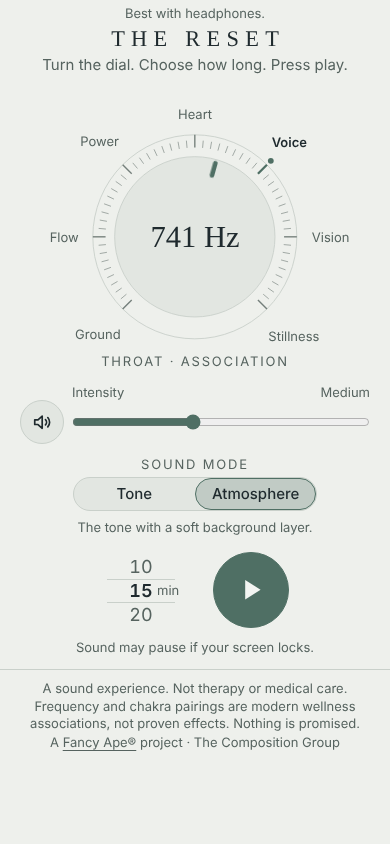
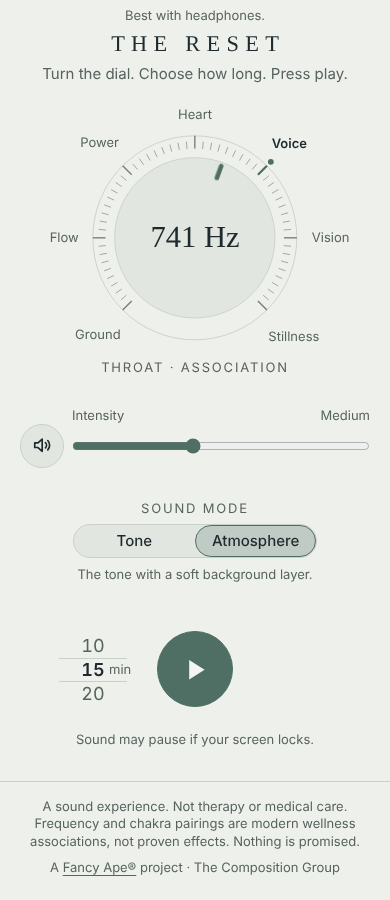
Play on the dial axis with the wheel to its left; one vertical rhythm (8/16/24/32/48)
Claude-Session: https://claude.ai/code/session_01GARUu4aZWZHH9xWAKDJbQb

diff --git a/index.html b/index.html
@@ -30,21 +30,24 @@
 *,*::before,*::after{box-sizing:inherit}
 html{scroll-padding-top:env(safe-area-inset-top,0px)}
 body{margin:0;min-height:100vh;min-height:100svh;display:flex;flex-direction:column;background:var(--bg);color:var(--ink);font-family:var(--sans);font-size:16px;line-height:1.5;-webkit-font-smoothing:antialiased;padding-top:env(safe-area-inset-top,0px)}
-main{--sp:1rem;flex:none;width:100%;max-width:30rem;margin:0 auto;padding:.5rem 1.25rem 1rem}
-.topnote{margin:0 0 .3rem;text-align:center;font-size:.8125rem;line-height:1.2;color:var(--muted)}
+/* one vertical rhythm, from the scale 8 / 16 / 24 / 32 / 48 px only */
+main{flex:none;width:100%;max-width:30rem;margin:0 auto;padding:8px 1.25rem 32px}
+.topnote{margin:0 0 8px;text-align:center;font-size:.8125rem;line-height:1.2;color:var(--muted)}
 main:has(#vMain.hidden) .topnote{display:none}
 h1{font-family:var(--serif);font-weight:400;font-size:1.75rem;letter-spacing:.28em;line-height:1.1;margin:0;padding-left:.28em;text-align:center}
 h2{font-family:var(--serif);font-weight:400;font-size:1.5rem;line-height:1.2;margin:0 0 .75rem}
-.lead{text-align:center;color:var(--muted);margin:.35rem 0 0;text-wrap:balance}
+.lead{text-align:center;color:var(--muted);margin:8px 0 0;text-wrap:balance}
 button,input{font:inherit;color:inherit}
 button{cursor:pointer}
 :focus-visible{outline:2px solid var(--brass);outline-offset:3px}
 .hidden,[hidden]{display:none!important}
-.hint{font-size:.8125rem;line-height:1.35;color:var(--muted);margin:var(--sp) 0 0;text-align:center}
+.hint{font-size:.8125rem;line-height:1.35;color:var(--muted);margin:16px 0 0;text-align:center}
+.notice{margin-top:24px}
+main:has(#slot:not([hidden])) .notice{margin-top:16px}
 
 /* dial */
 /* ring radius --R = half the box minus 50px, so the seven labels sit outside the ring and inside the box at every size; the empty bottom of the arc is pulled in by the negative bottom margin */
-.dial{--W:min(100%,19rem,40svh);--R:calc(50cqw - 50px);container-type:inline-size;position:relative;width:var(--W);min-width:12rem;aspect-ratio:1;margin:var(--sp) auto calc(var(--W) * -.12);touch-action:none;user-select:none;-webkit-user-select:none;-webkit-tap-highlight-color:transparent;border-radius:50%;cursor:grab}
+.dial{--W:min(100%,19rem,40svh);--R:calc(50cqw - 50px);container-type:inline-size;position:relative;width:var(--W);min-width:12rem;aspect-ratio:1;margin:2px auto calc(13.9px - var(--W) * .1465);touch-action:none;user-select:none;-webkit-user-select:none;-webkit-tap-highlight-color:transparent;border-radius:50%;cursor:grab}
 .dial:active{cursor:grabbing}
 .dial svg{position:absolute;left:50%;top:50%;display:block;width:calc(var(--R) * 3.0357);height:calc(var(--R) * 3.0357);margin:calc(var(--R) * -1.51786) 0 0 calc(var(--R) * -1.51786);overflow:visible}
 .aura{position:absolute;left:calc(50% - var(--R) - 10px);top:calc(50% - var(--R) - 10px);width:calc(var(--R) * 2 + 20px);height:calc(var(--R) * 2 + 20px);border-radius:50%;pointer-events:none;opacity:0;background:radial-gradient(circle,color-mix(in srgb,var(--glow-c,var(--accent)) 55%,transparent) 52%,transparent 70%);will-change:opacity,transform}
@@ -65,7 +68,7 @@ button{cursor:pointer}
 .dial:focus-visible{outline-offset:8px}
 
 /* readout */
-.readout{text-align:center;margin:0;min-height:1.3rem}
+.readout{text-align:center;margin:0}
 .chakra{font-size:.8125rem;font-weight:400;letter-spacing:.14em;line-height:1.3;color:var(--muted)}
 
 /* pills, toggles */
@@ -77,7 +80,7 @@ button{cursor:pointer}
 /* volume + transport */
 /* intensity: speaker, track and the two labels share one grid, so the speaker centres on the track and the labels start and end with it */
 .mix,.transport,.extras{max-width:22rem;margin-left:auto;margin-right:auto}
-.mix{display:grid;grid-template-columns:2.75rem 1fr;grid-template-rows:auto 2.75rem;column-gap:.5rem;align-items:center;margin-top:var(--sp)}
+.mix{display:grid;grid-template-columns:2.75rem 1fr;grid-template-rows:auto 2.75rem;column-gap:8px;align-items:center;margin-top:32px}
 .mix input[type=range]{grid-column:2;grid-row:2;width:100%;height:2.75rem;margin:0;accent-color:var(--accent)}
 .icon-btn{grid-column:1;grid-row:2}
 .intens{display:contents}
@@ -86,9 +89,9 @@ button{cursor:pointer}
 .icon-btn{width:2.75rem;height:2.75rem;flex:none;border:1px solid var(--line);background:var(--surface);border-radius:50%;display:grid;place-items:center;padding:0}
 .icon-btn svg{width:1.4rem;height:1.4rem}
 .icon-btn[data-muted="true"]{border-color:var(--accent);background:color-mix(in srgb,var(--accent) 22%,transparent)}
-.transport{display:flex;justify-content:center;align-items:center;gap:2rem;margin-top:calc(var(--sp) * 1.4)}
+.transport{display:grid;grid-template-columns:minmax(0,1fr) auto minmax(0,1fr);align-items:center;column-gap:24px;margin-top:48px}
 /* time wheel: three visible rows (one faded value above and below), as tall as the row it sits in. The box itself has 12px of invisible padding top and bottom (cancelled by negative margins) so each half is a 44px touch target. */
-.wheel{--rh:1.5rem;--pad:12px;flex:none;position:relative;width:5rem;height:calc(var(--rh) * 3 + var(--pad) * 2);margin:calc(var(--pad) * -1) 0;border-radius:.6rem;touch-action:none;user-select:none;-webkit-user-select:none;-webkit-tap-highlight-color:transparent;cursor:ns-resize;font-variant-numeric:tabular-nums}
+.wheel{--rh:1.5rem;--pad:12px;justify-self:end;position:relative;width:5rem;height:calc(var(--rh) * 3 + var(--pad) * 2);margin:calc(var(--pad) * -1) 0;border-radius:.6rem;touch-action:none;user-select:none;-webkit-user-select:none;-webkit-tap-highlight-color:transparent;cursor:ns-resize;font-variant-numeric:tabular-nums}
 .wheel:focus-visible{outline:none}
 .wheel:focus-visible .wview{outline:2px solid var(--brass);outline-offset:3px;border-radius:.6rem}
 .wview{position:absolute;inset:var(--pad) 0;overflow:hidden;border-top:1px solid transparent}
@@ -107,20 +110,20 @@ button{cursor:pointer}
 .playwrap{position:relative;width:5.5rem;height:5.5rem}
 .play{position:relative}
 /* sound mode: a slim segmented control. The buttons are 32px tall to look light, with an invisible 7px above and below (the buttons have a 1px border, so 30 + 14 = 44) so each tap area is 44px. */
-.soundmode{margin-top:var(--sp);text-align:center}
-.segctl{display:inline-grid;grid-template-columns:1fr 1fr;margin-top:.3rem;border:1px solid var(--line);border-radius:999px;background:var(--surface)}
+.soundmode{margin-top:32px;text-align:center}
+.segctl{display:inline-grid;grid-template-columns:1fr 1fr;margin-top:8px;border:1px solid var(--line);border-radius:999px;background:var(--surface)}
 .segctl button{position:relative;z-index:1;min-width:6.5rem;height:2rem;border:1px solid transparent;border-radius:999px;background:none;padding:0 1rem;font-size:.9375rem;font-weight:500;color:var(--ink)}
 .segctl button::after{content:"";position:absolute;left:0;right:0;top:-7px;bottom:-7px}
 .segctl button[aria-checked="true"]{border-color:var(--accent);background:color-mix(in srgb,var(--accent) 22%,transparent)}
-.modecap{margin:.5rem 0 0;font-size:.8125rem;line-height:1.3;color:var(--muted);min-height:1.05rem}.btn{border:1px solid var(--line);background:var(--surface);border-radius:999px;padding:.5rem 1.1rem;min-height:2.75rem;font-weight:500}
+.modecap{margin:8px 0 0;font-size:.8125rem;line-height:1.3;color:var(--muted);min-height:1.05rem}.btn{border:1px solid var(--line);background:var(--surface);border-radius:999px;padding:.5rem 1.1rem;min-height:2.75rem;font-weight:500}
 .btn[aria-pressed="true"]{border-color:var(--accent);background:color-mix(in srgb,var(--accent) 22%,transparent)}
 .btn.primary{background:var(--accent);color:var(--accent-ink);border-color:var(--accent)}
 .btn:disabled{opacity:.5;cursor:default}
 
 /* rolling fact line and final-minute prompt share one reserved slot below Play, so nothing shifts or overlaps */
-.extras{display:grid;gap:.5rem;margin-top:var(--sp)}
+.extras{display:grid;gap:8px;margin-top:24px}
 .extras .pill{min-width:6.5rem}
-.slot{display:grid;place-items:center;min-height:2.9rem;margin:var(--sp) auto 0;max-width:24rem}
+.slot{display:grid;place-items:start center;min-height:2.9rem;margin:32px auto 0;max-width:24rem}
 .slot>*{grid-area:1/1}
 .fact{margin:0;max-width:26rem;text-align:center;font-family:var(--serif);font-style:italic;font-size:1rem;line-height:1.4;color:var(--muted);opacity:0;transition:opacity 3s ease-in-out}
 .fact.on{opacity:1}
@@ -142,16 +145,16 @@ button{cursor:pointer}
 .counts thead th{font-weight:500;color:var(--muted);font-size:.875rem}
 .row{display:flex;gap:.75rem;align-items:center;justify-content:center;flex-wrap:wrap;margin-top:1rem}
 
-footer{border-top:1px solid var(--line);padding:.6rem 1.25rem calc(.5rem + env(safe-area-inset-bottom,0px));font-size:.8125rem;line-height:1.35;color:var(--muted);text-align:center}
+footer{border-top:1px solid var(--line);padding:16px 1.25rem calc(24px + env(safe-area-inset-bottom,0px));font-size:.8125rem;line-height:1.35;color:var(--muted);text-align:center}
 footer p{margin:0 auto;max-width:30rem}
-footer .credit{margin-top:.1rem}
-footer a{color:inherit;text-underline-offset:.2em;display:inline-block;min-height:44px;line-height:44px;margin:-.9rem 0}
+footer .credit{margin-top:8px}
+footer a{position:relative;color:inherit;text-underline-offset:.2em}
+footer a::after{content:"";position:absolute;left:-8px;right:-8px;top:-14px;bottom:-14px}   /* 44px tap area around the one-line link */
 
 /* short screens: shrink the dial and spacing so Play is in view without scrolling */
 @media (max-height:860px){
-  main{--sp:.7rem;padding:.4rem 1.25rem .8rem}
   h1{font-size:1.4rem}
-  .lead{margin:.2rem 0 0;font-size:.9375rem;line-height:1.3}
+  .lead{font-size:.9375rem;line-height:1.3}
   .dial{--W:min(100%,19rem,38svh)}
   .playwrap{width:4.75rem;height:4.75rem}
   .play{width:4.75rem;height:4.75rem}
@@ -159,7 +162,7 @@ footer a{color:inherit;text-underline-offset:.2em;display:inline-block;min-heigh
   .slot{min-height:2.6rem}
   .fact{font-size:.9375rem;line-height:1.35}
 }
-@media (max-height:680px){ main{--sp:.6rem} .dial{--W:min(100%,19rem,35svh)} h1{font-size:1.25rem} .lead{font-size:.875rem;line-height:1.25} main:has(#signalMain:not([hidden])) .dial{--W:min(100%,19rem,30svh)} }
+@media (max-height:680px){ .dial{--W:min(100%,19rem,33svh)} h1{font-size:1.25rem} .lead{font-size:.8125rem;line-height:1.25} main:has(#signalMain:not([hidden])) .dial{--W:min(100%,19rem,30svh)} }
 @media (prefers-reduced-motion: reduce){.needle{transition:none}.wtrack{transition:none}.notch.pop{animation:none}.fact,.prompt,.prompt.on{transition:none}}
 </style>
 </head>
@@ -239,7 +242,7 @@ footer a{color:inherit;text-underline-offset:.2em;display:inline-block;min-heigh
     <p class="sr" id="live" role="status" aria-live="polite"></p>
 
     <p class="hint" id="noAudio" hidden>Sound isn’t available in this browser.</p>
-    <p class="hint">Sound may pause if your screen locks.</p>
+    <p class="hint notice">Sound may pause if your screen locks.</p>
   </section>
 
   <!-- 2 END (natural completion only) -->

diff --git a/CLAUDE.md b/CLAUDE.md
@@ -48,7 +48,7 @@ These rules apply to every change to `index.html`, `README.md`, and `docs/`. If 
 
 ## Product principles to preserve
 - Calm instrument panel: thin tick marks, a short knob-style pointer on the rim of the dial (the centre stays clear), a soft glow around the dial when active (nothing glows around Play). No steampunk, fake wear, or gimmicks.
-- One screen, top to bottom: a small "Best with headphones." line at the very top, the title and instruction line, dial (the Hz value large in its centre, updating as it turns), one readout line under it ("SACRAL · ASSOCIATION"), intensity, a "SOUND MODE" label with a slim Tone | Atmosphere segmented control (radiogroup, arrow keys switch; 44 px tap area) and a one-line caption that follows the selection, and one bottom row: the time wheel and Play, centred. The time is a rolling wheel (5, 10, 15, 20, 30, 45, 60, ∞; default 15). While playing, the wheel locks and shows the live clock in the same box, Stop and +5 min (one row) and Facts (the next row) appear below Play, and the fact line / "Extend? +5" prompt share one reserved slot below Play so nothing overlaps a control, and "Sound may pause if your screen locks." closes the main area above the footer divider. The fact line is italic serif. Copy stays minimal. Rolling fact lines are only these kinds, each worded as what it is: physics, tradition (say modern chakra charts and that sources disagree; Hz-to-chakra pairings are not traditional), invitation. All of that text and the closing lines live in the `COPY` block in `index.html`. The end screen appears only after a timed completion, or after stopping ∞ at 5 minutes or more, never after an early Stop on a timed session or Escape. ∞ plays until Pause or Stop and counts up; the log keeps the actual minutes played.
+- One screen, top to bottom: a small "Best with headphones." line at the very top, the title and instruction line, dial (the Hz value large in its centre, updating as it turns), one readout line under it ("SACRAL · ASSOCIATION"), intensity, a "SOUND MODE" label with a slim Tone | Atmosphere segmented control (radiogroup, arrow keys switch; 44 px tap area) and a one-line caption that follows the selection, and one bottom row: Play on the dial's centre axis with the time wheel to its left at a fixed 24 px gap (the space right of Play stays empty). The time is a rolling wheel (5, 10, 15, 20, 30, 45, 60, ∞; default 15). While playing, the wheel locks and shows the live clock in the same box, Stop and +5 min (one row) and Facts (the next row) appear below Play, and the fact line / "Extend? +5" prompt share one reserved slot below Play so nothing overlaps a control, and "Sound may pause if your screen locks." closes the main area above the footer divider. The fact line is italic serif. Vertical spacing uses one scale only, 8 / 16 / 24 / 32 / 48 px: lead to dial top label 24, dial to association 16, association to Intensity 32, Intensity to Sound Mode 32, caption to wheel and Play 48, Play to Stop / +5 min 24, rows 8, controls to fact text 32, fact text to notice 16, notice to footer divider 32, footer lines 8, footer bottom padding 24. Copy stays minimal. Rolling fact lines are only these kinds, each worded as what it is: physics, tradition (say modern chakra charts and that sources disagree; Hz-to-chakra pairings are not traditional), invitation. All of that text and the closing lines live in the `COPY` block in `index.html`. The end screen appears only after a timed completion, or after stopping ∞ at 5 minutes or more, never after an early Stop on a timed session or Escape. ∞ plays until Pause or Stop and counts up; the log keeps the actual minutes played.
 - Animate only opacity and transform. No animated blur, shadow, filter, or stroke, so cheap phones stay smooth. The glow takes the active stop's color.
 - The answer counts are shown as they are. Never hide or soften a "Worse" count.
 - Stop signal: when 3 or more of the last 12 saved sessions are "Worse", a quiet notice shows on the dial screen and the end screen. It has no dismiss button and is never softened or hidden. Only answered sessions are saved, so only they count.

diff --git a/CHANGELOG.md b/CHANGELOG.md
@@ -2,7 +2,7 @@
 
 ## v0.4.0 — v-next (unreleased)
 Builds on v0.3.0 (the dial).
-- Changed (v-next.4, sound mode): the stacked Tone / Atmosphere pills beside Play are replaced by a "SOUND MODE" label and a slim Tone | Atmosphere segmented control under Intensity (radiogroup with aria-checked; arrow keys switch segments; 32 px look, 44 px tap area) with a caption under it ("A single pure tone." / "The tone with a soft background layer."). The bottom row is now just [time wheel] [Play], centered, with more space around Play. "Best with headphones." appears only at the top.
+- Changed (v-next.4, sound mode): the stacked Tone / Atmosphere pills beside Play are replaced by a "SOUND MODE" label and a slim Tone | Atmosphere segmented control under Intensity (radiogroup with aria-checked; arrow keys switch segments; 32 px look, 44 px tap area) with a caption under it ("A single pure tone." / "The tone with a soft background layer."). The bottom row is now just Play on the dial's center axis with the [time wheel] to its left at a fixed 24 px gap (nothing to its right). Vertical spacing now follows one scale (8 / 16 / 24 / 32 / 48 px); see CLAUDE.md. The footer link's 44 px tap area no longer inflates the footer lines. "Best with headphones." appears only at the top.
 - Changed (v-next.4, visual redesign; appearance and layout only): "Best with headphones." is now a small muted line at the very top. The dial's ring now scales so the seven labels always sit a fixed distance outside it and inside the screen, with the selection dot, tick, label and rim pointer on one line and no label touching another; the dial and its labels are measured to avoid overlap at every size. One association line sits close under the dial, then Intensity (speaker, track and both labels on one grid), then the playback row. Tone / Atmosphere are equal-width pills; while playing, Stop and +5 min share one row and Facts has its own row; the fact line is italic serif under them. "Sound may pause if your screen locks." ends the main area on one line above the footer divider, and the footer is more compact (text unchanged; "Fancy Ape®" is the underlined link). Removed the pulsing stop-colored halo around Play (decorative, not progress; the glow around the dial stays). Small text now meets 4.5:1: the association line uses the full muted color and the faded wheel values use the muted color instead of faded ink. The time wheel no longer slides in from 5 on page load. Everything else is unchanged.
 - Changed (v-next.3, layout): the header is one line, "Turn the dial. Choose how long. Press play." The center-to-edge needle is now a short knob-style pointer on the dial's rim, so the center is clear, and the Hz value ("417 Hz") is shown large in the center of the dial and updates as the dial turns. Under the dial there is one line, "SACRAL · ASSOCIATION" (the large mode name is gone; it is the bold label on the dial). The bottom row is now [time wheel] [Play] [Tone / Atmosphere stacked], all centered on Play with 44 px toggles; on screens narrower than 360 px the toggles sit under Play instead. **Stop** moved to the row under Play (Stop, +5 min, Facts) while playing, so the toggles can stay in place. The dial's `aria-valuetext` is now "Flow, 417 hertz, sacral association" (matches the visible readout).
 - New: tab icon. Three inline PNG icon links (32×32, 16×16, apple-touch 180×180, as `data:` URLs, so nothing is fetched and there are no asset files) and `theme-color` for light (#EEF0EC) and dark (#141B1E), matching the page background.
